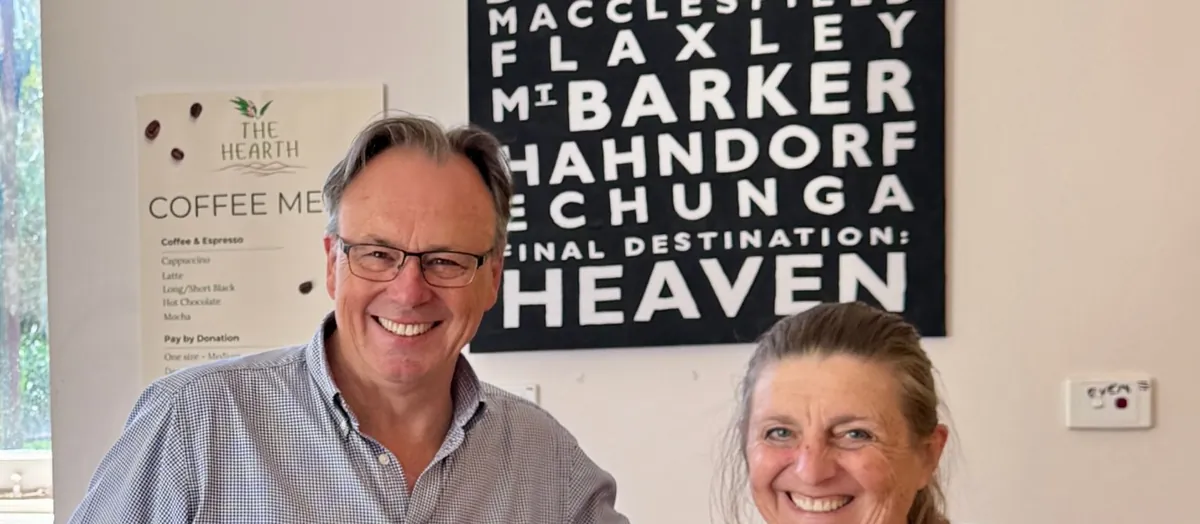
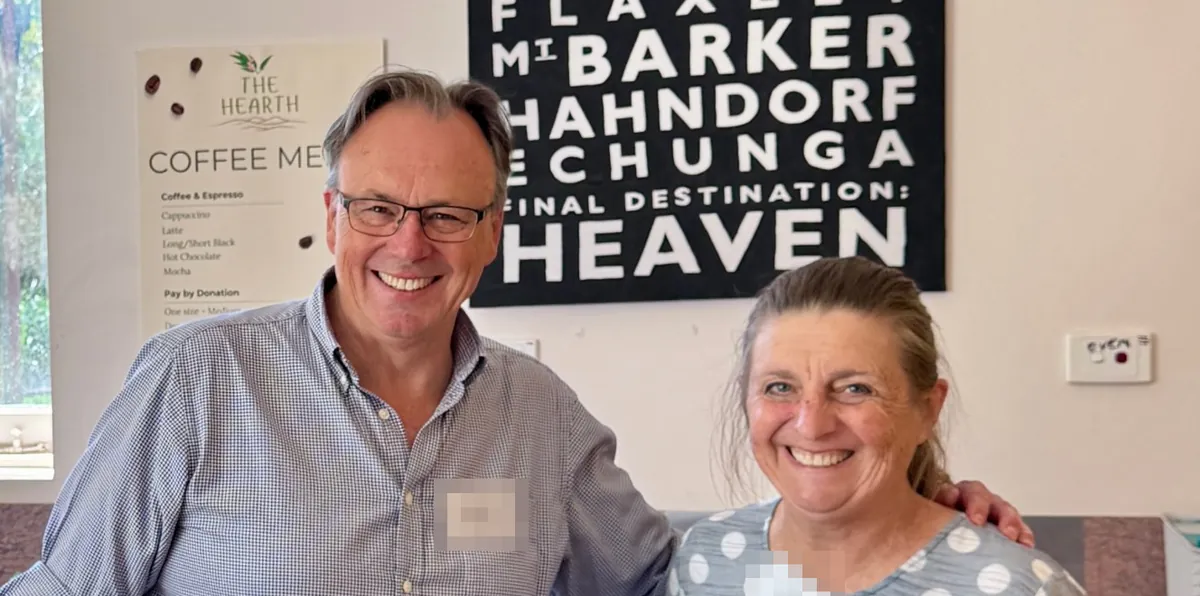
Re-crop Hearth photo so both faces are fully in frame
Claude-Session: https://claude.ai/code/session_012FqpjakDMjZHnjqwPWcH8S

diff --git a/echunga-welcome/index.html b/echunga-welcome/index.html
@@ -145,7 +145,7 @@
         <li class="reveal"><span class="ico" aria-hidden="true"><svg viewBox="0 0 24 24" fill="none" stroke="currentColor" stroke-width="1.7" stroke-linecap="round" stroke-linejoin="round" aria-hidden="true" focusable="false"><path d="M5 10h11v4.5a4.5 4.5 0 0 1-4.5 4.5h-2A4.5 4.5 0 0 1 5 14.5V10z"/><path d="M16 11.2h1.3a2.4 2.4 0 0 1 0 4.8h-1.7"/><path d="M8.2 3.2c0 1.3 1.4 1.4 1.4 2.8M12 3.2c0 1.3 1.4 1.4 1.4 2.8"/><path d="M4.5 21.5h12"/></svg></span><strong>Meet in The Hearth</strong><span>Barista coffee, tea and biscuits, and a chance to connect.</span></li>
       </ol>
 
-      <figure class="photo band reveal"><img src="photos/hearth-coffee.webp" alt="Two smiling volunteers at the coffee machine in The Hearth, with the coffee menu and a sign of local place names behind them." width="1200" height="524"></figure>
+      <figure class="photo band reveal"><img src="photos/hearth-coffee.webp" alt="Two smiling volunteers at the coffee machine in The Hearth, with the coffee menu and a sign of local place names behind them." width="1200" height="596" style="object-position:center top"></figure>
 
       <div class="extras">
         <article class="card gold reveal">
